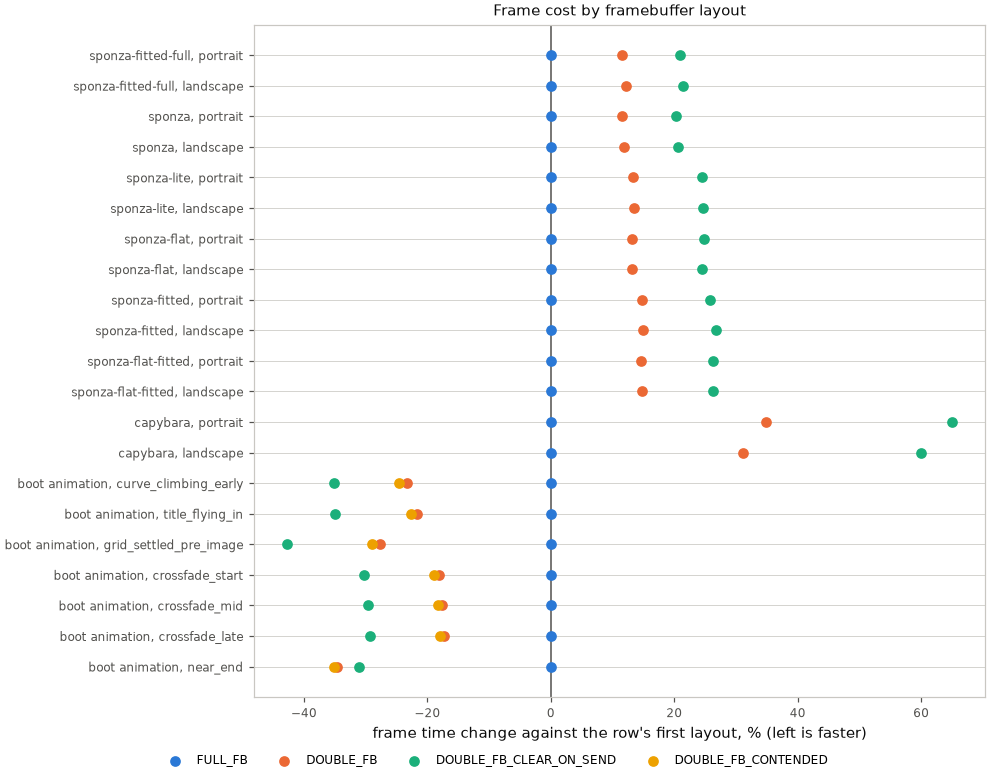
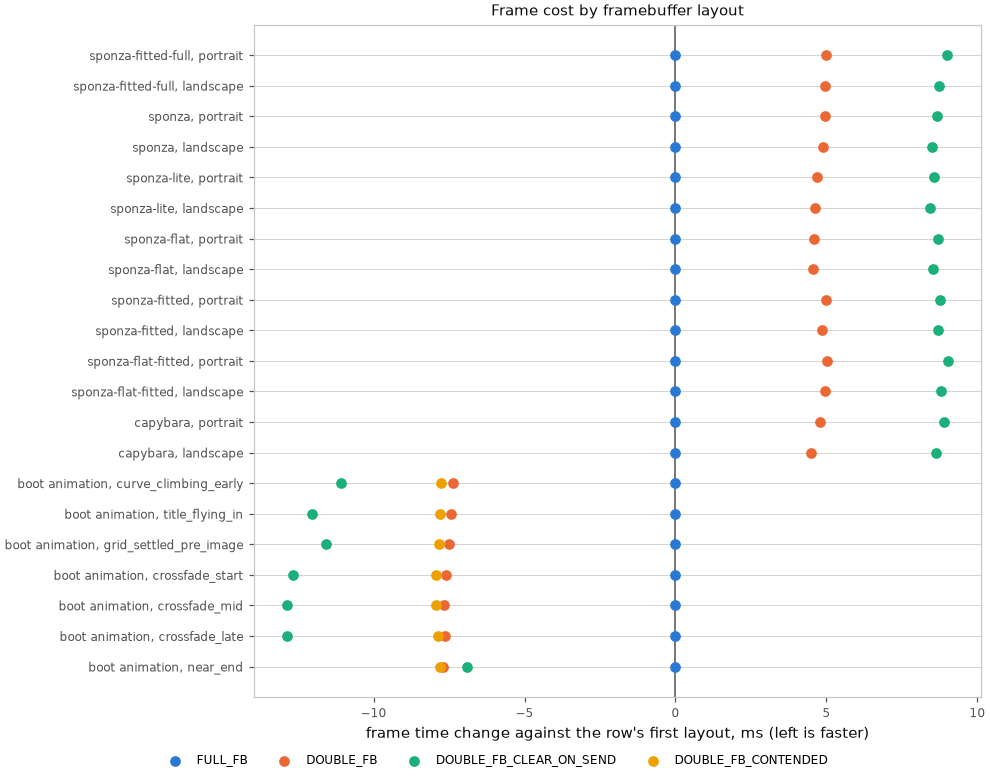
layout_costs: group pictures whose ms change agrees, every picture in a dropdown, chart in ms (autana-sr7i9)

diff --git a/launcher/tools/render/layout_costs.py b/launcher/tools/render/layout_costs.py
@@ -1,6 +1,7 @@
 #!/usr/bin/env python3
 """The frame cost of each picture in each framebuffer layout, as a chart and
-the table in docs/gfx/Targets-and-Modes.md's `gfx-layout-costs` block.
+the tables in docs/gfx/Targets-and-Modes.md's `gfx-layout-costs` block: one row per
+group of pictures whose change agrees, then every picture in a dropdown.
 launcher/tools/render/render_doc_images.sh runs it on the captures kept in
 docs/render/data/.
 
@@ -37,6 +38,9 @@ CHART_WIDTH = 9
 ROW_HEIGHT = 0.28
 CHART_BASE_HEIGHT = 1.2
 MARKER_SIZE = 36
+# A picture joins a group when its ms change against the same first layout lies
+# within this of the next nearer member's.
+GROUP_GAP_MS = 1.0
 
 MESH_ROW = re.compile(r"\blayout_perf: (?P<scene>[^:\s]+):(?P<layout>\w+):(?P<stage>\w+) mean (?P<mean>\d+)us\b")
 
@@ -86,8 +90,63 @@ def change(costs, layout):
     return (costs[layout] / costs[first] - 1) * PERCENT_SCALE
 
 
+def ms_change(costs, layout):
+    """Ms change of `layout` against the row's first layout."""
+    return costs[layout] - costs[next(iter(costs))]
+
+
+def groups(rows):
+    """(first layout, layout, rows) for each run of rows whose ms change lies
+    within GROUP_GAP_MS of a neighbour's, by layout, then by first row."""
+    order = list(rows)
+    found = []
+    for layout in layouts_of(rows):
+        by_first = {}
+        for name, costs in rows.items():
+            first = next(iter(costs))
+            if layout in costs and layout != first:
+                by_first.setdefault(first, []).append(name)
+        for first, names in by_first.items():
+            names.sort(key=lambda name: ms_change(rows[name], layout))
+            runs = [[names[0]]]
+            for before, name in zip(names, names[1:]):
+                if ms_change(rows[name], layout) - ms_change(rows[before], layout) > GROUP_GAP_MS:
+                    runs.append([])
+                runs[-1].append(name)
+            runs = [sorted(run, key=order.index) for run in runs]
+            found += [(first, layout, run) for run in sorted(runs, key=lambda run: order.index(run[0]))]
+    return found
+
+
+def pictures(rows, run):
+    """The pictures a run holds; one only partly held names the rows it holds,
+    or the rows it misses when those are fewer."""
+    def split(name):
+        return (name.split(", ", 1) + [""])[:2]
+    held, missing = {}, {}
+    for name in rows:
+        picture, part = split(name)
+        (held if name in run else missing).setdefault(picture, []).append(part)
+    cells = []
+    for picture, parts in held.items():
+        rest = missing.get(picture)
+        if not rest:
+            cells.append(picture)
+        elif len(parts) <= len(rest):
+            cells.append(f"{picture} ({', '.join(parts)})")
+        else:
+            cells.append(f"{picture} (all but {', '.join(rest)})")
+    return ", ".join(cells)
+
+
+def span(values, unit):
+    """`low to high` with signs, or the one value when they agree at that precision."""
+    low, high = (f"{value:+.1f}{unit}" if unit != "%" else f"{value:+.0f}%" for value in (min(values), max(values)))
+    return low if low == high else f"{low} to {high}"
+
+
 def chart(rows, path):
-    """One line per picture, a dot per layout at its change against the row's first."""
+    """One line per picture, a dot per layout at its ms change against the row's first."""
     layouts = layouts_of(rows)
     if len(layouts) > len(SLOTS):
         raise ValueError(f"{len(layouts)} layouts, {len(SLOTS)} colours")
@@ -97,23 +156,30 @@ def chart(rows, path):
     for y in range(len(names)):
         axis.axhline(y, color=FAINT, linewidth=0.5, zorder=0)
     for layout, colour in zip(layouts, SLOTS):
-        points = [(change(rows[name], layout), y) for y, name in enumerate(names) if layout in rows[name]]
+        points = [(ms_change(rows[name], layout), y) for y, name in enumerate(names) if layout in rows[name]]
         axis.scatter([x for x, _ in points], [y for _, y in points], s=MARKER_SIZE, color=colour, label=layout,
                      zorder=2)
     axis.set_yticks(range(len(names)), names)
     axis.invert_yaxis()
-    axis.set_xlabel("frame time change against the row's first layout, % (left is faster)", color=INK)
+    axis.set_xlabel("frame time change against the row's first layout, ms (left is faster)", color=INK)
     style_axes(axis, "Frame cost by framebuffer layout")
     figure.legend(loc="outside lower center", ncol=len(layouts), frameon=False, fontsize=8)
     save(figure, path)
 
 
 def table(rows, chart_name):
-    """One row per picture, one column per layout; each cell after a row's
-    first layout gives its change against that first one."""
+    """The groups, one row each with its ms and percent ranges; then, in a
+    dropdown, one row per picture, one column per layout, each cell after a
+    row's first layout giving its change against that first one."""
     layouts = layouts_of(rows)
     lines = [f"![Frame cost by framebuffer layout](../images/render/{chart_name})", "",
-             "| Picture | " + " | ".join(f"`{layout}`" for layout in layouts) + " |",
+             "| Layout | Against | Pictures | Change, ms | Change |", "|---|---|---|---|---|"]
+    for first, layout, run in groups(rows):
+        lines.append(f"| `{layout}` | `{first}` | {pictures(rows, run)} "
+                     f"| {span([ms_change(rows[name], layout) for name in run], '')} "
+                     f"| {span([change(rows[name], layout) for name in run], '%')} |")
+    lines += ["", "<details><summary>Every picture</summary>", "",
+              "| Picture | " + " | ".join(f"`{layout}`" for layout in layouts) + " |",
              "|---|" + "---|" * len(layouts)]
     for row, costs in rows.items():
         first = next(iter(costs))
@@ -126,8 +192,10 @@ def table(rows, chart_name):
             else:
                 cells.append(f"{costs[layout]:.1f} ({change(costs, layout):+.0f}%)")
         lines.append(f"| {row} | " + " | ".join(cells) + " |")
+    lines += ["", "</details>"]
     note = ("\nBoard ms per frame, mean of each suite's samples. A change is against the "
-            "first layout its row reports.")
+            "first layout its row reports; a group holds the pictures whose ms change lies "
+            f"within {GROUP_GAP_MS:.1f} ms of the next nearer one's.")
     return "\n".join(lines) + "\n" + note
 
 

diff --git a/launcher/tools/tests/test_layout_costs.py b/launcher/tools/tests/test_layout_costs.py
@@ -39,12 +39,23 @@ class LayoutCostsTests(unittest.TestCase):
         self.assertEqual(list(rows), ["room, portrait", "room, landscape", "boot animation, swell"])
         lines = layout_costs.table(rows, "chart.png").splitlines()
         self.assertEqual(lines[0], "![Frame cost by framebuffer layout](../images/render/chart.png)")
-        lines = lines[2:]
-        self.assertEqual(lines[0], "| Picture | `LAYOUT_A` | `LAYOUT_B` | `LAYOUT_C` |")
-        self.assertEqual(lines[2], "| room, portrait | 40.0 | 44.0 (+10%) | not run |")
-        self.assertEqual(lines[3], "| room, landscape | 20.0 | not run | not run |")
-        self.assertEqual(lines[4], "| boot animation, swell | 30.0 | 27.0 (-10%) | 33.0 (+10%) |")
+        self.assertEqual(lines[4], "| `LAYOUT_B` | `LAYOUT_A` | room (portrait) | +4.0 | +10% |")
+        self.assertEqual(lines[5], "| `LAYOUT_B` | `LAYOUT_A` | boot animation | -3.0 | -10% |")
+        self.assertEqual(lines[6], "| `LAYOUT_C` | `LAYOUT_A` | boot animation | +3.0 | +10% |")
+        every = lines[lines.index("<details><summary>Every picture</summary>") + 2:]
+        self.assertEqual(every[0], "| Picture | `LAYOUT_A` | `LAYOUT_B` | `LAYOUT_C` |")
+        self.assertEqual(every[2], "| room, portrait | 40.0 | 44.0 (+10%) | not run |")
+        self.assertEqual(every[3], "| room, landscape | 20.0 | not run | not run |")
+        self.assertEqual(every[4], "| boot animation, swell | 30.0 | 27.0 (-10%) | 33.0 (+10%) |")
+        self.assertEqual(every[6], "</details>")
         self.assertTrue(lines[-1].startswith("Board ms per frame"))
+
+    def test_a_group_chains_changes_within_the_gap(self):
+        gap = layout_costs.GROUP_GAP_MS
+        rows = {"a, 1": {"A": 10.0, "B": 12.0}, "b, 1": {"A": 20.0, "B": 22.0 + gap},
+                "a, 2": {"A": 30.0, "B": 32.0 + 2 * gap}, "b, 2": {"A": 40.0, "B": 42.0 + 4 * gap}}
+        self.assertEqual(layout_costs.groups(rows), [("A", "B", ["a, 1", "b, 1", "a, 2"]), ("A", "B", ["b, 2"])])
+        self.assertEqual(layout_costs.pictures(rows, ["a, 1", "b, 1", "a, 2"]), "a, b (1)")
 
     def test_captures_must_share_one_build(self):
         mesh = self.write("mesh.log", MESH)

diff --git a/docs/gfx/Targets-and-Modes.md b/docs/gfx/Targets-and-Modes.md
@@ -68,11 +68,24 @@ Each picture's frame cost on the board, from one build, in `FULL_FB`,
 each sent frame, so the draw skips its clear; in `_CONTENDED` a send runs
 during the whole draw, so both share PSRAM. Not run: the suite has no such pass.
 
-The r3d scenes draw in `update()`; the boot animation draws a full frame in
-`frame()`.
+A layout costs about the same ms whatever the picture, so the groups below share
+one ms range while their percentages spread. The r3d scenes draw in `update()`
+and pay for the second framebuffer; the boot animation draws a full frame in
+`frame()` and saves about as much.
 
-<!-- generated: gfx-layout-costs sha256=5f4317e1e75d4249a07f8a4e057e62dca99bcec8cb5a295406ed27ffb6d0c1be -->
+<!-- generated: gfx-layout-costs sha256=f95c91ad4cd936e45d9ebdc0dc1dee0675db8147fef44a50331fb11f212d9235 -->
 ![Frame cost by framebuffer layout](../images/render/gfx-layout-costs.png)
+
+| Layout | Against | Pictures | Change, ms | Change |
+|---|---|---|---|---|
+| `DOUBLE_FB` | `FULL_FB` | sponza-fitted-full, sponza, sponza-lite, sponza-flat, sponza-fitted, sponza-flat-fitted, capybara | +4.5 to +5.0 | +12% to +35% |
+| `DOUBLE_FB` | `FULL_FB` | boot animation | -7.7 to -7.4 | -35% to -17% |
+| `DOUBLE_FB_CLEAR_ON_SEND` | `FULL_FB` | sponza-fitted-full, sponza, sponza-lite, sponza-flat, sponza-fitted, sponza-flat-fitted, capybara | +8.4 to +9.0 | +20% to +65% |
+| `DOUBLE_FB_CLEAR_ON_SEND` | `FULL_FB` | boot animation (all but near_end) | -12.9 to -11.1 | -43% to -29% |
+| `DOUBLE_FB_CLEAR_ON_SEND` | `FULL_FB` | boot animation (near_end) | -6.9 | -31% |
+| `DOUBLE_FB_CONTENDED` | `FULL_FB` | boot animation | -7.9 to -7.8 | -35% to -18% |
+
+<details><summary>Every picture</summary>
 
 | Picture | `FULL_FB` | `DOUBLE_FB` | `DOUBLE_FB_CLEAR_ON_SEND` | `DOUBLE_FB_CONTENDED` |
 |---|---|---|---|---|
@@ -98,7 +111,9 @@ The r3d scenes draw in `update()`; the boot animation draws a full frame in
 | boot animation, crossfade_late | 44.0 | 36.4 (-17%) | 31.1 (-29%) | 36.1 (-18%) |
 | boot animation, near_end | 22.2 | 14.5 (-35%) | 15.3 (-31%) | 14.4 (-35%) |
 
-Board ms per frame, mean of each suite's samples. A change is against the first layout its row reports.
+</details>
+
+Board ms per frame, mean of each suite's samples. A change is against the first layout its row reports; a group holds the pictures whose ms change lies within 1.0 ms of the next nearer one's.
 <!-- /generated: gfx-layout-costs -->
 
 Regenerate with
